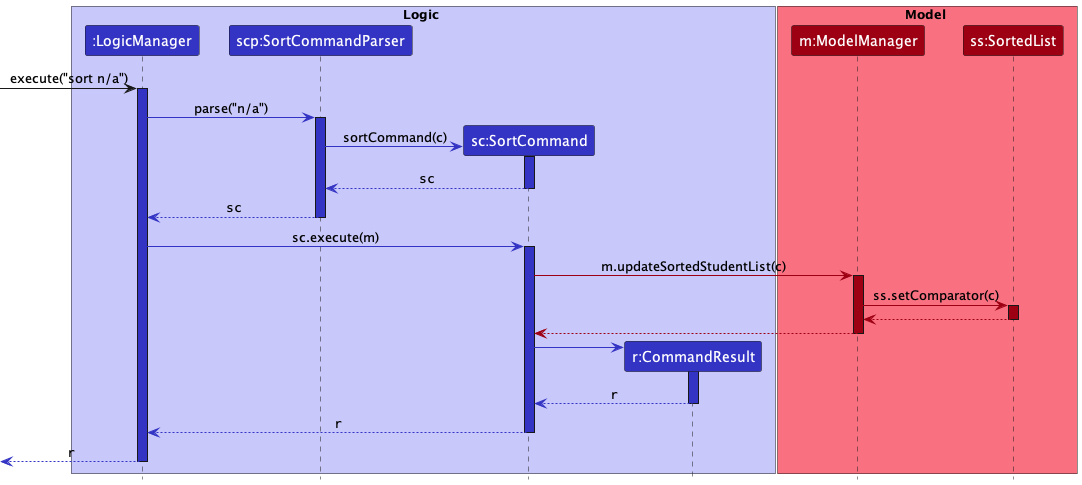
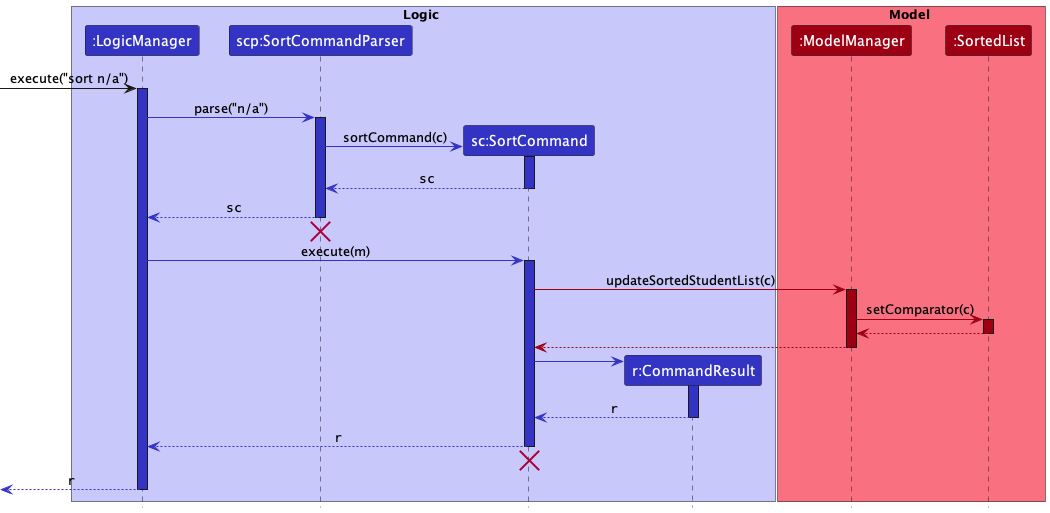
Organize Developer Guide
Update sort command sequence diagram

Changed region(s): [[0.0, 0.0, 1.0, 0.9897], [0.3962, 0.3402, 0.4267, 0.3711], [0.2133, 0.4021, 0.2438, 0.433]]

diff --git a/docs/DeveloperGuide.md b/docs/DeveloperGuide.md
@@ -182,21 +182,23 @@ class does not implement the interface as its attributes are `String`s.
 Given below is an example usage scenario and how the sort mechanism behaves at each step.
 
 1. FRIDAY initialises an `ObservableList<Student>` named `students` and
-a `SortedList<Student>` named `sortedStudents` upon launch.
+   a `SortedList<Student>` named `sortedStudents` upon launch.
 
 2. The user executes `sort n/a` command to sort the students by name in ascending order.
 
 3. The user input is passed to
-`LogicManager`, which then calls the `SortCommandParser#parse` method to parse the argument `n/a`.
+   `LogicManager`, which then calls the `SortCommandParser#parse` method to parse the argument `n/a`.
 
 4. The `SortCommandParser` checks that the criteria and order are valid, and creates a `SortCommand` with a `Comparator`
-that orders the student names alphabetically.
+   that orders the student names alphabetically.
 
 5. The `LogicManager` calls the `SortCommand#execute` method, which in turn calls  `Model#updateSortedStudentList`
-to update `sortedStudents` with the given `Comparator`.
+   to update `sortedStudents` with the given `Comparator`.
 
-6. The list `students` is set to `sortedStudents`, and the `StudentListPanel#setList` method is called to refresh the
-`ListView` in the UI with the new `students` list.
+6. The list `students` is set to `sortedStudents`, after which  `CommandResult` is returned by the `SortCommand` to signal success.
+
+7. The `StudentListPanel#setList` method is called to refresh the
+   `ListView` in the UI with the new `students` list, and the success message from `CommandResult` is displayed.
 
 The following Sequence Diagram summarises the aforementioned steps.
 
@@ -204,28 +206,12 @@ The following Sequence Diagram summarises the aforementioned steps.
 
 #### Design considerations
 
-**Aspect: How many criteria should the sort command accept**
+**Aspect: How many criteria should the `sort` command accept**
 
-* **Alternative 1 (current choice):** Accept only one criterion
-    * Pros: Clear to the user, and easy to implement.
-    * Cons: Unable to further sort students with a secondary criteria when the first criteria of some students match.
-
-* **Alternative 2:** Accept multiple criteria and sort in the order they are given
-    * Pros: More precise sorting when many students have matching details, e.g. same Mastery Check dates.
-    * Cons: Sorting becomes confusing for the user and difficult to implement if many criteria are given.
-
-**Aspect: How to sort missing details**
-
-* **Alternative 1 (current choice)** Students with missing details are sorted last in ascending order, and first in descending order
-    * Pros: When sorting in ascending order, students with missing details are shown at the bottom to reduce clutter.
-            Users can sort a detail in descending order to see which students have the detail missing.
-    * Cons: Top of the list may be cluttered with students with missing details when sorted in descending order.
-
-* **Alternative 2** Students with missing details are sorted last in descending order.
-  * Pros: Students with relevant details are immediately available at the top of the list.
-
-Reason for choosing alternative 1: provide a way for users to quickly see which students have missing details.
-
+|              | **Pros**   | **Cons** |
+| -------------|------------|----------|
+| **Option 1 (current choice)** <br> Accept only one criterion | Easier to implement and also clearer for the user | Unable to further sort students with a secondary criteria should the first criteria of some students match |
+| **Option 2** <br> Accept multiple criteria and sort in the order they are given | More precise sorting when many students have matching details, e.g. same Mastery Check dates | Sorting becomes confusing for the user and difficult to implement if many criteria are given |
 
 ### Alias feature
 
@@ -464,38 +450,7 @@ For all use cases below, the **System** is `FRIDAY` and the **Actor** is the `us
 
 <br>
 
-**Use Case 4: Add details to a student**
-
-**MSS**
-
-1. User requests to list students
-2. FRIDAY shows a list of students
-3. User requests to add details for a specific student in the list
-4. FRIDAY adds details for the student
-
-    Use case ends.
-
-**Extensions**
-
-* 2a. The list is empty.
-
-  Use case ends.
-
-* 3a. The given index is invalid.
-
-    * 3a1. FRIDAY shows an error message.
-
-      Use case resumes at step 2.
-
-* 3b. The given details have the wrong formats or tags
-
-    * 3b1. FRIDAY shows an error message.
-
-      Use case resumes at step 2.
-
-<br>
-
-**Use Case 5: Edit details of a student**
+**Use Case 4: Edit details of a student**
 
 **MSS**
 
@@ -526,7 +481,7 @@ For all use cases below, the **System** is `FRIDAY` and the **Actor** is the `us
 
 <br>
 
-**Use Case 6: Edit remarks for a student**
+**Use Case 5: Edit remarks for a student**
 
 **MSS**
 
@@ -557,7 +512,7 @@ For all use cases below, the **System** is `FRIDAY` and the **Actor** is the `us
 
 <br>
 
-**Use Case 7: Delete details of a student**
+**Use Case 6: Delete details of a student**
 
 **MSS**
 
@@ -588,7 +543,7 @@ For all use cases below, the **System** is `FRIDAY` and the **Actor** is the `us
 
 <br>
 
-**Use Case 8: Edit grades for a student**
+**Use Case 7: Edit grades for a student**
 
 **MSS**
 
@@ -619,42 +574,38 @@ For all use cases below, the **System** is `FRIDAY` and the **Actor** is the `us
 
 <br>
 
-**Use Case 9: Sort students**
-
-**System: FRIDAY**
-
-**Actor: User**
+**Use Case 8: Sort students**
 
 **MSS**
 
-1. User requests to sort students with a specific criteria and order
-2. FRIDAY displays the students in sorted order
+1. User requests to list students
+2. FRIDAY shows a list of students
+3. User requests to sort all students with a specific criteria and order
+4. FRIDAY displays the students in sorted order
 
    Use case ends.
 
 **Extensions**
 
-* 1a. The given criteria is invalid.
+* 2a. The list is empty.
 
-    * 1a1. FRIDAY shows an error message listing the accepted criteria.
+  Use case ends.
 
-      Use case resumes at step 1.
+* 3a. The given criteria or order is invalid.
 
-* 1b. The given order is invalid.
+    * 3a1. FRIDAY shows an error message listing the accepted criteria and orders.
 
-    * 1b1. FRIDAY shows an error message listing the accepted orders.
+      Use case resumes at step 3.
 
-      Use case resumes at step 1.
+* 3b. More than one criterion is given.
 
-* 1c. More than one criterion is given.
+    * 3b1. FRIDAY shows an error message.
 
-    * 1c1. FRIDAY shows an error message.
-
-      Use case resumes at step 1.
+      Use case resumes at step 3.
 
 <br>
 
-**Use Case 10: Mark a student's Mastery Check as passed.**
+**Use Case 9: Mark a student's Mastery Check as passed.**
 
 **MSS**
 
@@ -685,7 +636,7 @@ For all use cases below, the **System** is `FRIDAY` and the **Actor** is the `us
 
 <br>
 
-**Use Case 11: Unmark a student's Mastery Check.**
+**Use Case 10: Unmark a student's Mastery Check.**
 
 **MSS**
 
@@ -773,15 +724,11 @@ testers are expected to do more *exploratory* testing.
 ### Deleting a student
 
 1. Deleting a student while all students are being shown
-
    1. Prerequisites: List all students using the `list` command. Multiple students in the list.
-
    1. Test case: `delete 1`<br>
       Expected: First contact is deleted from the list. Details of the deleted contact shown in the status message. Timestamp in the status bar is updated.
-
    1. Test case: `delete 0`<br>
       Expected: No student is deleted. Error details shown in the status message. Status bar remains the same.
-
    1. Other incorrect delete commands to try: `delete`, `delete x`, `...` (where x is larger than the list size)<br>
       Expected: Similar to previous.
 
